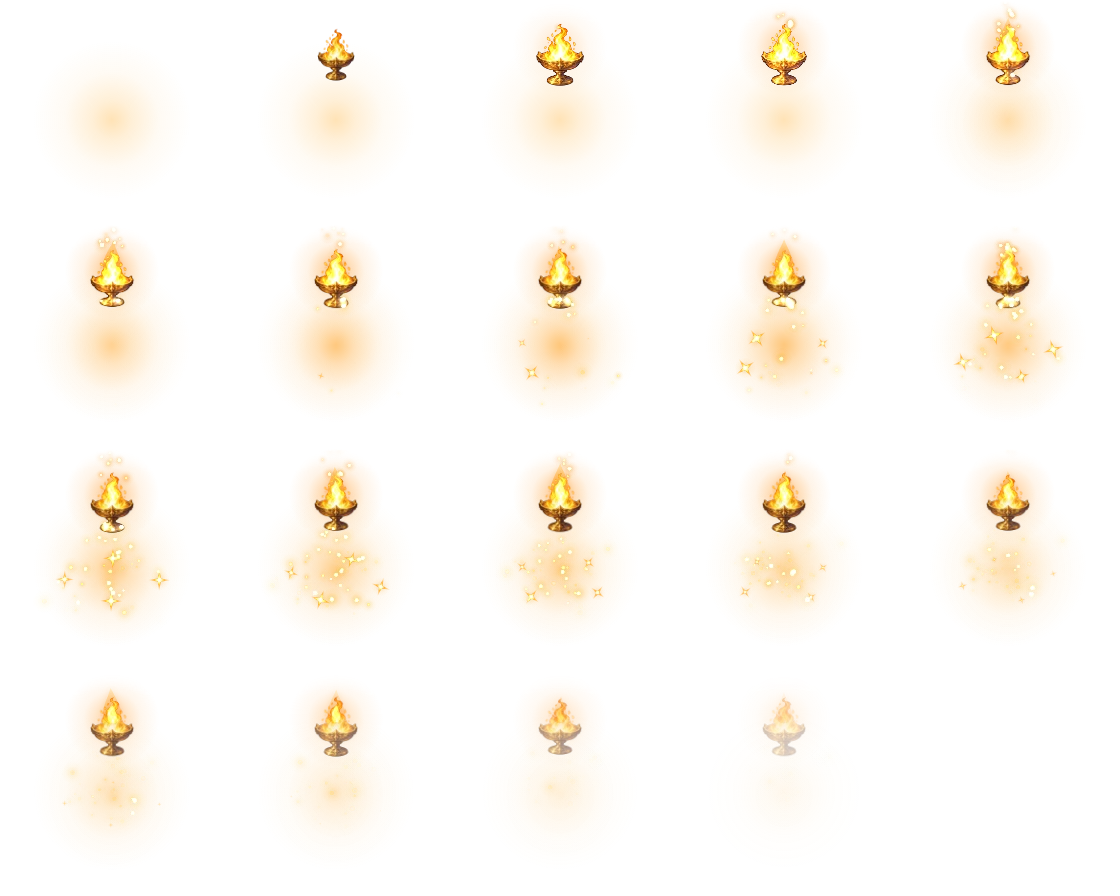
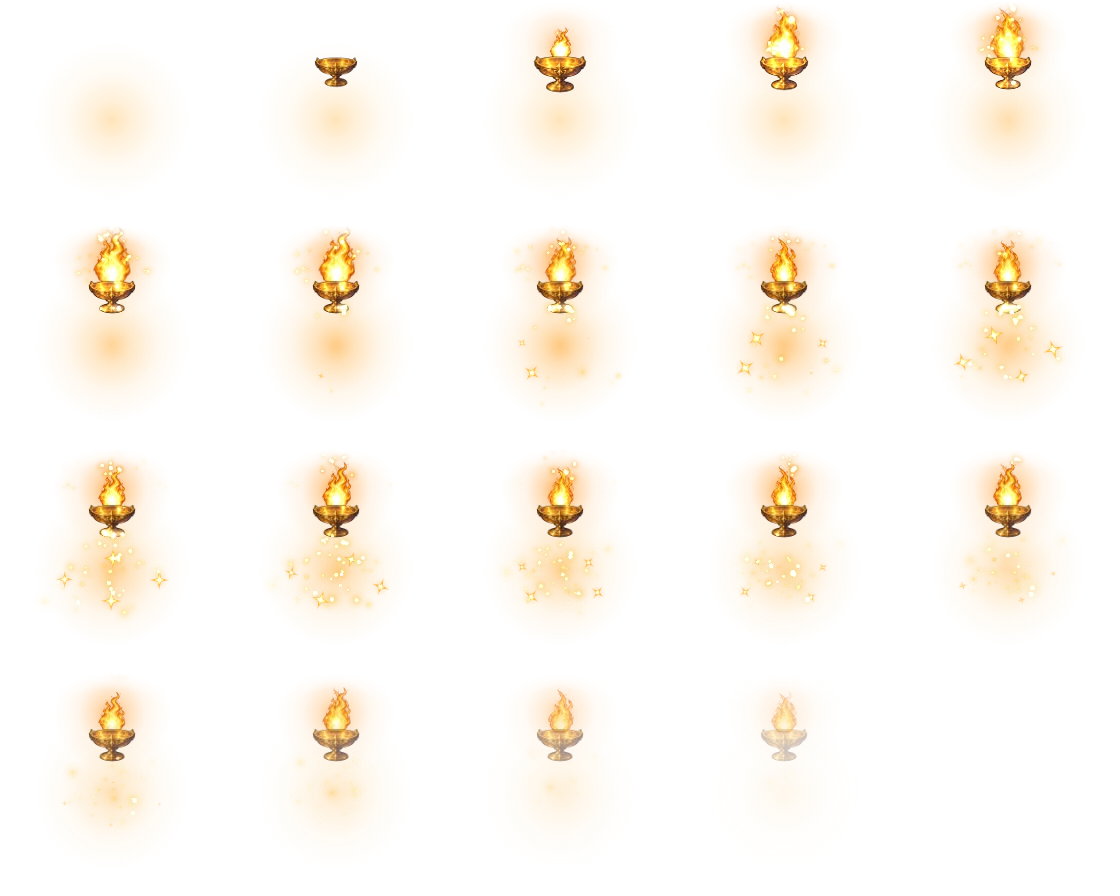
Paladin beacon: painted flames (cast + target ring), ring fitted to the cell
Lim: the beacon fire effect looked low quality and the ring around the
beacon target was too wide. Codex-painted flame-a/b (crossfaded with
squash, sway and core flicker) + an empty brazier bowl replace the code
flame shapes in paladin-beacon and the six ring flames in
paladin-beacon-loop. Board ring radius r*1.22 -> r*1.08 (BEACON_R), just
outside the hex vertices where the six flames sit.

diff --git a/src/battle/board.ts b/src/battle/board.ts
@@ -1273,6 +1273,8 @@ function putStand(key: string, artName: string, x: number, y: number, r: number,
   recordBound(`stand-${key}`, 'stand', 'rect', q.x, q.y, w, size * bh, { diameter: size });
   return true;
 }
+/** 봉화 대상 고리 반지름 (칸 반지름 배): 육각 꼭짓점 바로 바깥 (고리 위 불꽃 여섯이 꼭짓점 자리) */
+const BEACON_R = 1.08;
 /** 비구름이 판에 나타난 시각 (ms, 비가 그치면 null): 나타날 때 톡 부푸는 연출 */
 let rainShownAt: number | null = null;
 /** 0–1 → 살짝 넘쳤다 돌아오는 진행 (톡 부풂) */
@@ -1936,10 +1938,10 @@ export function render(now: number): void {
     if (u.immune > 0) { const w = Math.max(3, s * 0.1), R = ringRadius(`immune${u.id}`, 'hex', x, y, r * 1.14, w), a = u.immune < 2 ? 0.35 + 0.6 * pulse : 0.95; if (!edgeRing('fx-edge-plate', x, y, R, Math.max(6, s * 0.15), a)) hexPoly(overG, x, y, R).stroke({ width: w, color: 0xffffff, alpha: a }); }
     else if (u.redu > 0) { const R = ringRadius(`reduction${u.id}`, 'hex', x, y, r * 1.1, 2.5), a = u.redu < 2 ? 0.35 + 0.6 * pulse : 0.9; if (!edgeRing('fx-edge-bark', x, y, R, Math.max(5, s * 0.13), a)) hexPoly(overG, x, y, R).stroke({ width: 2.5, color: melting && u.redu > 0.5 ? MELT : HOT_COLOR.sprout, alpha: a }); }
     if (u.sacr > 0) { const R = ringRadius(`sacrifice${u.id}`, 'hex', x, y, r * 1.16, 2); if (!edgeRing('fx-link-chain', x, y, R, Math.max(4, s * 0.1))) dashPoly(overG, hexPts(x, y, R), 5, 4, 2, melting ? MELT : C.gold); }
-    // 봉화 = 칸 둘레 금빛 고리 루프 (paladin-beacon-loop: 숨 쉬는 고리 · 일렁이는 작은 불꽃 여섯 · 도는 혜성 · 불티, 2026-10-18 Lim 「봉화대상의 동그란 이미지도 파티클로 루프되게」).
+    // 봉화 = 칸 둘레 금빛 고리 루프 (고리는 칸 테두리에 딱 맞게 BEACON_R, 2026-10-18 Lim 「봉화 주변 원형이 너무 넓다. 딱맞게 조금 줄여줘」, 예전 1.22) (paladin-beacon-loop: 숨 쉬는 고리 · 일렁이는 작은 불꽃 여섯 · 도는 혜성 · 불티, 2026-10-18 Lim 「봉화대상의 동그란 이미지도 파티클로 루프되게」).
     // 고리가 예전 원 자리 (R)에 오게 프레임 한 변 = 2R ÷ BEACON_RING. 시각 효과 줄이기면 첫 장에서 멈춤. 띠가 아직 안 읽혔으면 예전 점선 원
     if (F.beacon === u.id) {
-      const R = ringRadius(`beacon${u.id}`, 'circle', x, y, r * 1.22, 2.5), lp = PXF['paladin-beacon-loop'], lt = smoothFrame('paladin-beacon-loop', S.reducedEffects ? 0 : loopFrame(lp, t));
+      const R = ringRadius(`beacon${u.id}`, 'circle', x, y, r * BEACON_R, 2.5), lp = PXF['paladin-beacon-loop'], lt = smoothFrame('paladin-beacon-loop', S.reducedEffects ? 0 : loopFrame(lp, t));
       if (lt) { if (lt.source.scaleMode !== 'linear') lt.source.scaleMode = 'linear'; const d = (2 * R) / BEACON_RING; ringArt.put(lt, x, y, d, d, 1); }
       else dashCircle(overG, x, y, R, 3, 5, 2.5, C.gold, 0.95);
     }
